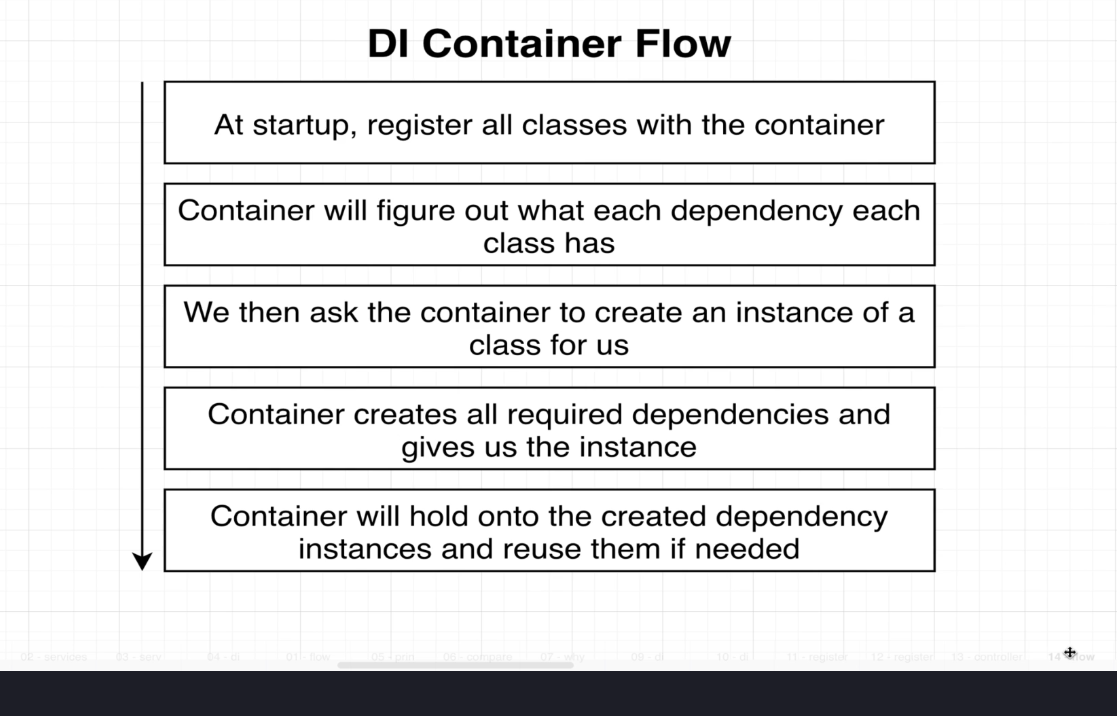
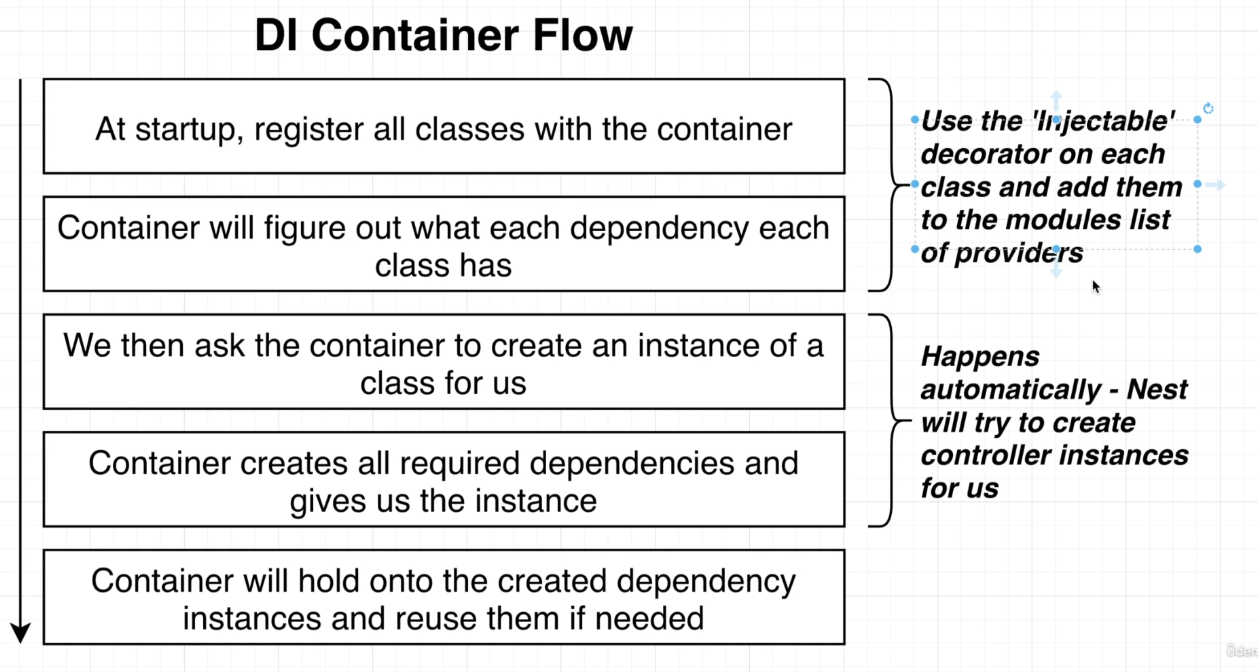
5. Refactoring to Use Dependency Injection

Changed region(s): [[0.0, 0.0, 1.0, 1.0]]

diff --git a/5_messages_service_repo/src/messages/messages.controller.ts b/5_messages_service_repo/src/messages/messages.controller.ts
@@ -11,36 +11,20 @@ import { MessagesService } from './messages.service';
 
 @Controller('messages')
 export class MessagesController {
-  messagesService: MessagesService;
-
-  constructor() {
-    // ERROR: DON'T DO THIS IN NEST WITH REAL APP - USE DEPENDENCY INJECTION
-    this.messagesService = new MessagesService();
-  }
+  constructor(public messagesService: MessagesService) {}
 
   @Get()
   listMessages() {
-    // return [
-    //   { id: 1, text: 'Hello NestJS 1' },
-    //   { id: 2, text: 'Hello NestJS 2' },
-    // ];
-
     return this.messagesService.findAll();
   }
 
   @Post()
   createMessage(@Body() body: CreateMessageDto) {
-    // console.log(body);
-    // return { message: 'Message created' };
-
     return this.messagesService.create(body.content);
   }
 
   @Get(':id')
   async getMessage(@Param('id') id: string) {
-    // console.log(id);
-    // return { id: 1, text: 'Hello World NestJS1, requested from id #1' };
-
     const message = await this.messagesService.findOne(id);
     if (!message) {
       throw new NotFoundException(`Message with id #${id} not found'`);

diff --git a/5_messages_service_repo/src/messages/messages.service.ts b/5_messages_service_repo/src/messages/messages.service.ts
@@ -1,14 +1,12 @@
+import { Injectable } from '@nestjs/common';
 import { MessagesRepository } from './messages.repository';
 
+@Injectable()
 export class MessagesService {
   messagesRepo: MessagesRepository;
 
-  constructor() {
-    // Service is creating its own dependencies
-    // ERROR: So we have set up a dependency between these two classes.
-    // And the service is creating the dependency on its own.
-    // This is something that we do not do in nest.
-    this.messagesRepo = new MessagesRepository();
+  constructor(messagesRepo: MessagesRepository) {
+    this.messagesRepo = messagesRepo;
   }
 
   findOne(id: string) {

diff --git a/5_messages_service_repo/src/messages/messages.module.ts b/5_messages_service_repo/src/messages/messages.module.ts
@@ -1,7 +1,10 @@
 import { Module } from '@nestjs/common';
 import { MessagesController } from './messages.controller';
+import { MessagesService } from './messages.service';
+import { MessagesRepository } from './messages.repository';
 
 @Module({
   controllers: [MessagesController],
+  providers: [MessagesService, MessagesRepository],
 })
 export class MessagesModule {}

diff --git a/5_messages_service_repo/src/messages/messages.repository.ts b/5_messages_service_repo/src/messages/messages.repository.ts
@@ -1,5 +1,7 @@
+import { Injectable } from '@nestjs/common';
 import { readFile, writeFile } from 'fs/promises';
 
+@Injectable()
 export class MessagesRepository {
   async findOne(id: string): Promise<object> {
     const contents = await readFile('messages.json', 'utf8');

diff --git a/notes.md b/notes.md
@@ -592,16 +592,16 @@ constructor() {
 
 **<span style='color: #ffdf90'>IMPORTANT:** Inversion of Control Principle: if you want to have reusable code, classes should not create instances of its dependencies on its own.
 
-![image info](./5_sc3.png)
+![image info](./_notes/5_sc3.png)
 
-![image info](./5_sc4.png)
+![image info](./_notes/5_sc4.png)
 
-![image info](./5_sc5.png)
+![image info](./_notes/5_sc5.png)
 
 - whenever you create a copy or an instance of `messagesService`, you must provide an object that satisfies the *repository interface*.
 - the reason this is best is that we do not rely upon getting exactly the `messagesRepository`. Instead, our code can work perfectly fine as long as you pass it any object that satisfies this interface. It could be the `messagesRepository`, or it could be a totally different kind of repository with a totally different implementation.
 
-![image info](./5_sc6.png)
+![image info](./_notes/5_sc6.png)
 
 **<span style='color: #bbffff'> Note:** whenever we write out automated testing, we want our code to run as fast as possible. We want the test to execute very, very quickly. Whenever you are doing automated testing, it is generally bad practice to have any tests that actually try to write files or retrieve resources from the hard disk.
 
@@ -609,15 +609,58 @@ So if we were trying to write a test around messages service, ideally we would n
 
 This class could have all the required methods like *findOne, findAll and create.* But rather than actually writing a file to the hard drive and reading from a file on the hard drive, maybe the fake repository could just store a list of messages in memory.
 
-**<span style='color: #ffdf90'>IMPORTANT:**it's only through the use of this interface right here that we can pass in any kind of object to be used as a repository.  we can swap out the dependency for `messagesService` if perhaps it's more advantageous to give it a different repository. This makes `messagesService` easier to test and possibly more usable as well.
+**<span style='color: #ffdf90'>IMPORTANT:** it's only through the use of this interface right here that we can pass in any kind of object to be used as a repository.  we can swap out the dependency for `messagesService` if perhaps it's more advantageous to give it a different repository. This makes `messagesService` easier to test and possibly more usable as well.
 
 ### **<span style='color: #6e7a73'>Introduction to Dependency Injection**
 
+
 **<span style='color: #ffdf90'>IMPORTANT:** **Dependency injection** is all about making use of inversion of control, but not having to create a ton of different classes or a ton of different instances every single time. **So the total linchpin of how dependency injection works is something called a container.** DI Container / Injector, that list all classes and their dependencies
+
+### **<span style='color: #6e7a73'>Refactoring to Use Dependency Injection**
 
 #### **<span style='color: #6e7a73'>DI Container Flow**
 
-![image info](./5_sc7.png)
+![image info](./_notes/5_sc7.png)
+
+#### **<span style='color: #6e7a73'>using Typescript Synthetic sugar with Dependency Injection**
+
+**<span style='color: #bbffff'> Note:**The 2 below are absolutely equivalent and the later saves a lot of boiler plate code
+
+```typescript
+export class MessagesService {
+  messagesRepo: MessagesRepository;
+
+  constructor(messagesRepo: MessagesRepository) {
+    this.messagesRepo = messagesRepo;
+  }
+// ...
+}
+```
+
+```typescript
+export class MessagesService {
+  constructor(public messagesRepo: MessagesRepository) {  }
+// ...
+}
+```
+
+To register classes in DI Container, we use the `@Injectable()` decorator.
+
+**<span style='color: #bbffff'> Note:** We don't have to register our `Controller` with our container as the controller only consumes classes and NestJS automatically does it for us.
+
+**<span style='color: #b0ffb6'> messages.module.ts** Inside our module file, we need to add a new property `providers` to the `@Module()` decorator, listing classes that can be used as dependencies to others.
+
+```typescript
+@Module({
+  controllers: [MessagesController],
+  providers: [MessagesService, MessagesRepository],
+})
+```
+
+**<span style='color: #bbffff'> Note:** In NestJS, at no point in time during this refactor, did we have to:
+
+- create a container/injector: even though it exists in our application, we never really interact with it directly
+- doing explicit registration, instead we add the *Injectable()* decorators to dependencies and the `providers` property to the module to list them.
 <!---
 [comment]: it works with text, you can rename it how you want
 
